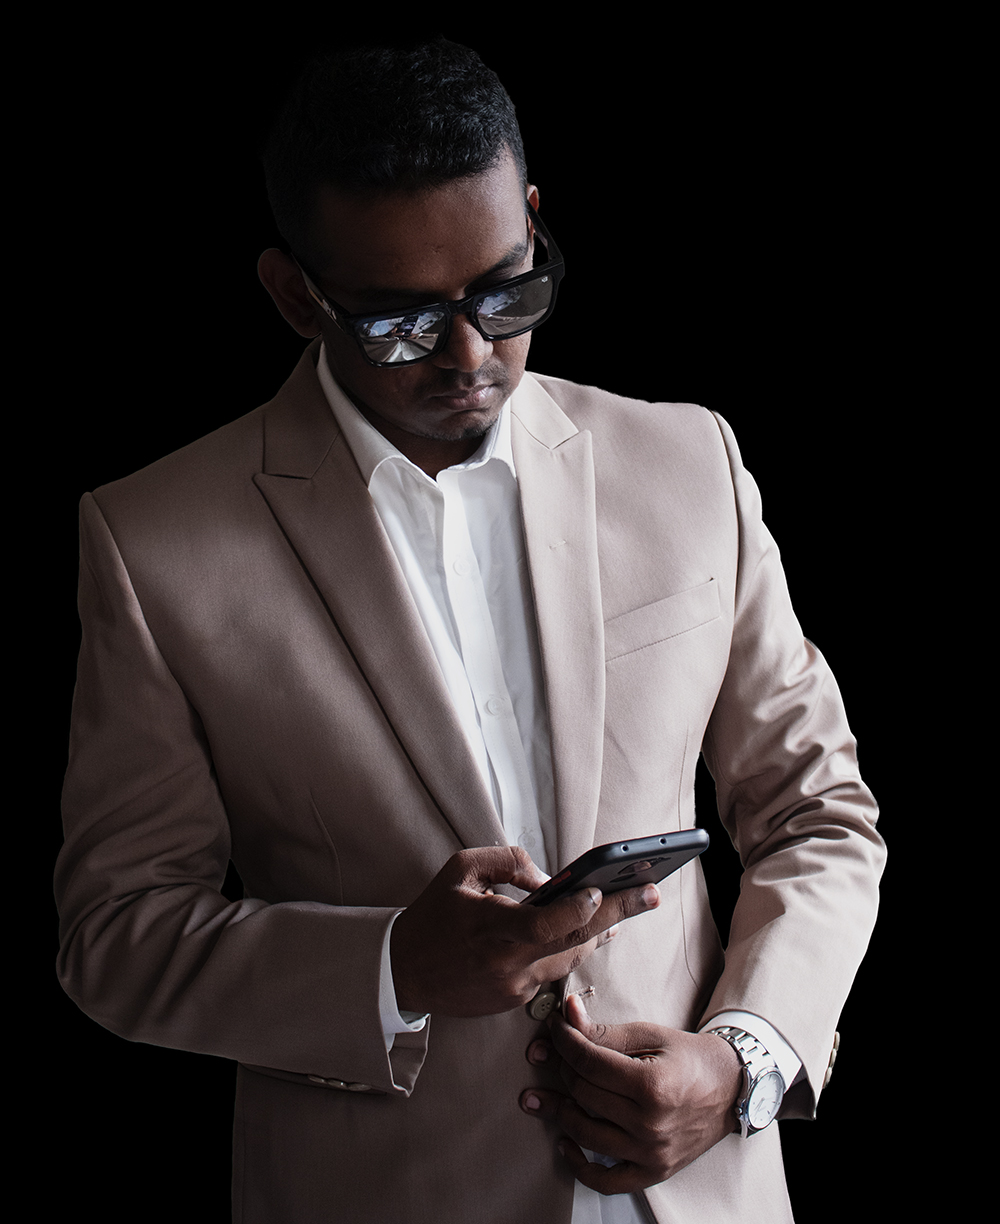
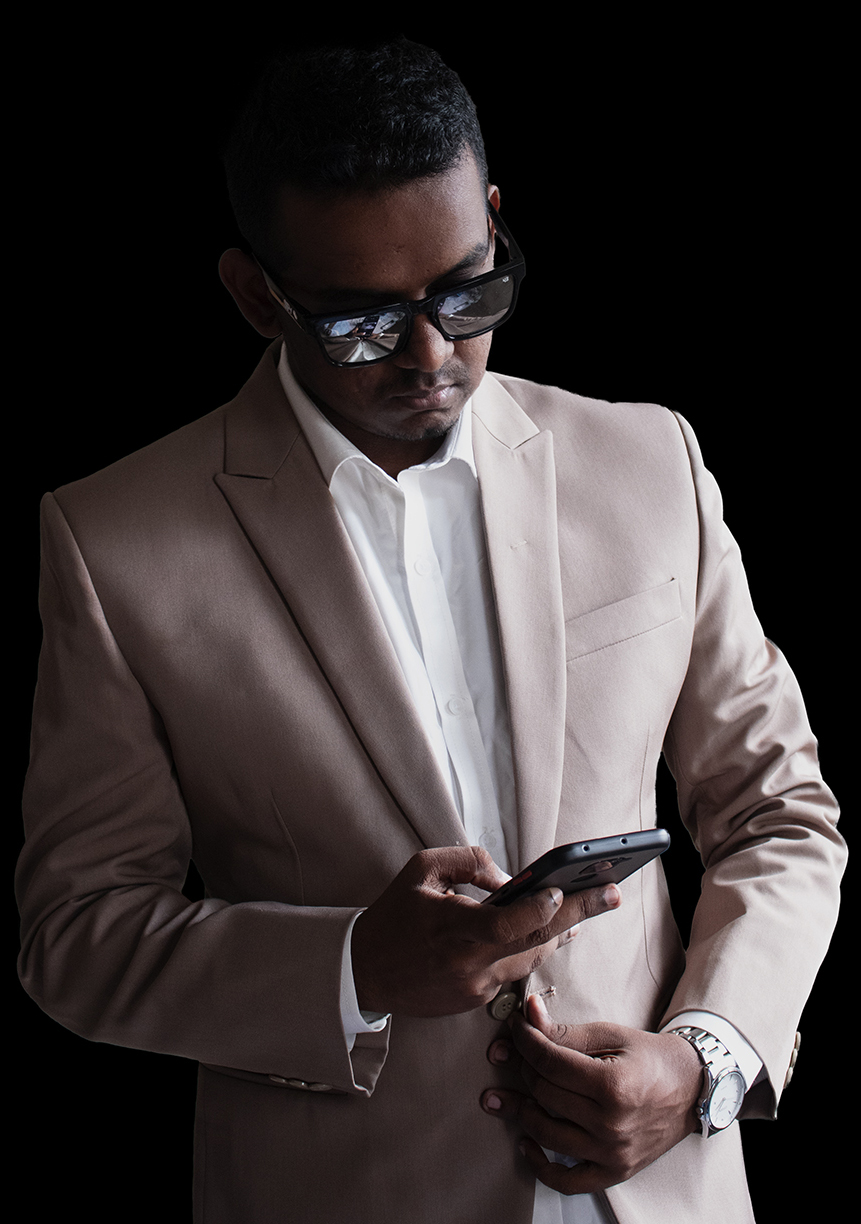
update

diff --git a/CSS/custom.css b/CSS/custom.css
@@ -85,14 +85,14 @@ p {
 }
 
 .title {
-  font-size: 7.5rem;
+  font-size: 7.5vw;
   line-height: 0.9;
   margin-bottom: 1rem;
   font-weight: 900;
 }
 
 .sub-title {
-  font-size: 1.9rem;
+  font-size: 1.9vw;
   margin-bottom: 0px;
   padding-left: 0.4rem;
   line-height: 0.8;
@@ -100,7 +100,7 @@ p {
 }
 
 .content {
-  font-size: 1.2rem;
+  font-size: 1.2vw;
   color: #9b9b9b;
   font-weight: 300;
   padding-left: 0.3rem;
@@ -108,8 +108,9 @@ p {
 }
 
 .personal-img {
-  width: 32rem;
-  height: 38rem;
+  width: 100%;
+  /* max-width: 400px; */
+  height: auto;
   margin-top: 3rem;
 }
 
@@ -137,6 +138,28 @@ p {
 @media screen and (min-width: 601px) {
 }
 
-/* If the screen size is 600px wide or less, set the font-size of <div> to 30px */
-@media screen and (max-width: 600px) {
+@media only screen and (max-width: 768px) {
+  /* For mobile phones: */
+  .details {
+    padding-top: 6rem;
+  }
+  .title {
+    font-size: 65px;
+  }
+  .sub-title {
+    font-size: 18px;
+    padding-left: 0.15rem;
+    padding-bottom: 0.2rem;
+    font-weight: 400;
+  }
+  .content {
+    font-size: 14px;
+    padding-left: 0.15rem;
+  }
+  .section-info {
+    text-align: center;
+  }
+  .btn-cu-outline {
+    margin: 0.5rem 0.2rem;
+  }
 }

diff --git a/home.html b/home.html
@@ -22,15 +22,15 @@
 
 <body>
 
-  <div class="row section-info">
-    <div class="col-lg-6 col-md-12 details">
+  <div class="row section-info justify-content-center">
+    <div class="col-lg-6 details">
       <p class="sub-title">Hello, it’s me</p>
       <p class="title">Hishan</p>
       <p class="content">A hardworking and dedicated individual with experience in working on web-based projects seeking
         an opportunity to work as a software developer and contribute to the success of your organization.</p>
       <button type="button" class="btn-cu-outline">GET A CV</button>
     </div>
-    <div class="col-lg-5 col-md-12">
+    <div class="col-lg-5">
       <img class="personal-img" src="Resources/images/self.jpg" alt="personal-image">
     </div>
   </div>
